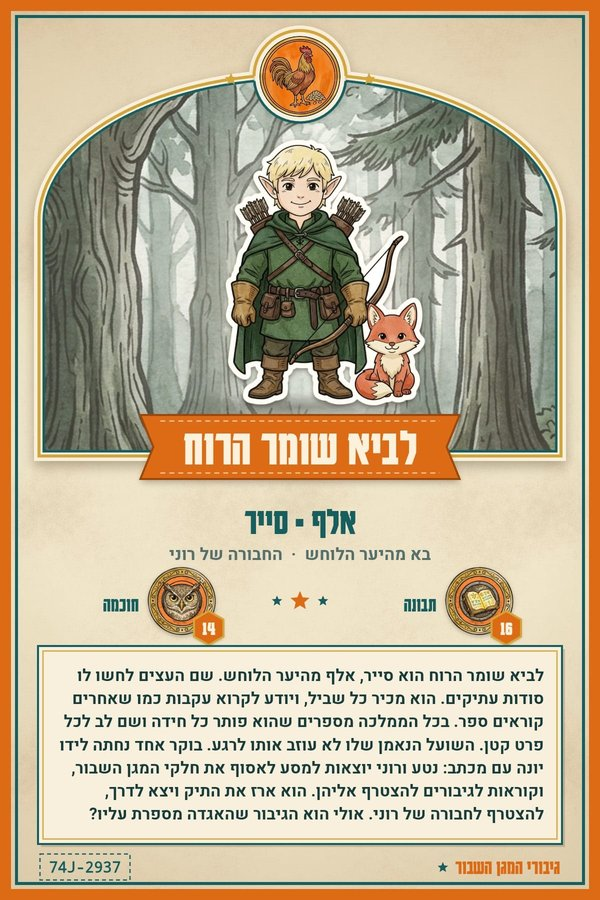
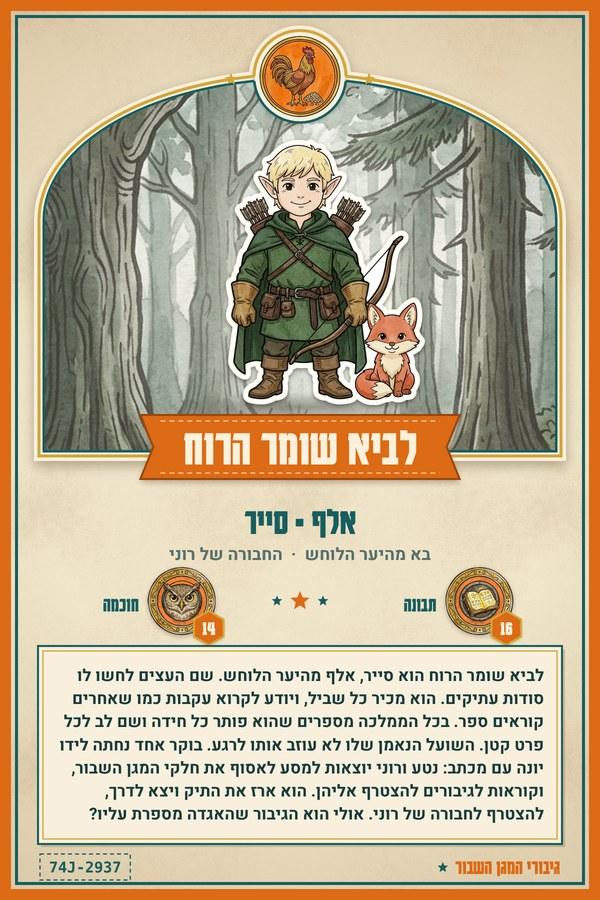
The rooster crest upright (6 degrees clockwise, Doron); the four rooster gallery cards re-made from their codes
Claude-Session: https://claude.ai/code/session_01LEbABbnnB8nh6yaNWJiAwm

Changed region(s): [[0.45, 0.0311, 0.54, 0.1244], [0.78, 0.7778, 0.81, 0.8089], [0.54, 0.7778, 0.57, 0.8089]]

diff --git a/gallery.js b/gallery.js
@@ -3,9 +3,9 @@
 // Adding a hero: README.md, "The gallery". Each card is read for anything private before it goes in: this site is public.
 const GALLERY = {
   0: "gallery/0.jpg",    // נטע, 2026-11-23
-  1: "gallery/1.jpg",    // רוני, 2026-11-23
-  4: "gallery/4.jpg",    // עלמה, 2026-11-23 ("עלמה ילדת הירח": renamed by Doron, re-made from the code)
-  5: "gallery/5.jpg",    // לביא, 2026-11-23
-  7: "gallery/7.jpg",    // אילן, 2026-11-23
+  1: "gallery/1.jpg",    // רוני, 2026-11-23; re-made from the code 2026-11-25 (the rooster crest upright)
+  4: "gallery/4.jpg",    // עלמה, 2026-11-23 ("עלמה ילדת הירח": renamed by Doron, re-made from the code); re-made from the code 2026-11-25 (the rooster crest upright)
+  5: "gallery/5.jpg",    // לביא, 2026-11-23; re-made from the code 2026-11-25 (the rooster crest upright)
+  7: "gallery/7.jpg",    // אילן, 2026-11-23; re-made from the code 2026-11-25 (the rooster crest upright)
   8: "gallery/8.jpg",    // ראם, 2026-11-23 ("ראם חומק הצללים": renamed by Doron, re-made from the code)
 };

diff --git a/tools/parts/build_web.py b/tools/parts/build_web.py
@@ -1,6 +1,7 @@
 """Writes the hero's pictures for the site, and parts.js, which says where each one goes.
-python3 build_web.py <repo root> [--js-only]   (run from the working folder with parts/raw/* and tools/parts/* in it)
+python3 build_web.py <repo root> [--js-only | --crests]   (run from the working folder with parts/raw/* and tools/parts/* in it)
 --js-only rewrites parts.js without making the pictures again (the slow part, about 12 minutes).
+--crests makes only the two team crests (seconds); parts.js stays as it is.
 
 Everything is placed in "hero space": body pixels of the 1024 px body pictures, origin at the body picture's
 top-left (a head and its hat reach above it, so y goes negative). Every layer in parts.js carries m = [a, b, c,
@@ -30,6 +31,17 @@ def save(im, name, scale):
 def m6(M): return [round(float(v), 5) for v in (M[0, 0], M[1, 0], M[0, 1], M[1, 1], M[0, 2], M[1, 2])]
 def scale_shift(k, x, y): return np.array([[k, 0, x], [0, k, y], [0, 0, 1.0]])
 def rel(name): return "parts/web/" + name
+
+# Team crests, for the name screen and the card. The rooster is drawn leaning: its correct angle is 6 degrees clockwise
+# (Doron, 2026-11-25), turned round the badge's centre (the badge is round, so only the bird and its seed pile turn).
+CREST_TURN = {"neta": 0, "roni": 6}
+def crest(t):
+    im = cutout(f"crest_{t}.jpg"); im = im.crop(im.getbbox())
+    if CREST_TURN[t]: im = im.rotate(-CREST_TURN[t], resample=Image.BICUBIC, center=(im.width / 2, im.height / 2))
+    return save(im, f"crest_{t}.webp", 320 / im.width)
+if "--crests" in sys.argv:
+    for t in CREST_TURN: print(f"crest_{t}.webp", crest(t))
+    sys.exit()
 
 parts = {"K": K, "bodies": {}, "heads": {}, "hats": {}, "pets": {}, "colours": HC.COLOURS, "classes": HC.CLASSES}
 
@@ -97,9 +109,7 @@ for p in PETS:
     im = A.load_pet(p); name = f"pet_{p}.webp"; save(im, name, K)
     parts["pets"][p] = {"src": rel(name), "m": m6(scale_shift(1 / K, 920 - im.width // 2, 985 - im.height))}
 
-# Team crests, for the name screen and the card.
-for t in ("neta", "roni"):
-    im = cutout(f"crest_{t}.jpg"); im = im.crop(im.getbbox()); save(im, f"crest_{t}.webp", 320 / im.width)
+for t in CREST_TURN: crest(t)
 parts["crests"] = {"neta": rel("crest_neta.webp"), "roni": rel("crest_roni.webp")}
 
 with open(os.path.join(ROOT, "parts.js"), "w") as fh:

diff --git a/tools/parts/README.md b/tools/parts/README.md
@@ -12,7 +12,7 @@ The parts are drawn in Gemini by Doron and kept as they came in `parts/raw/`.
 - `recolor.py`: outfit colour by hue swap. Each recolourable body lists its garment's hue range and minimum saturation (`GARMENT`); pixels inside it move to the target hue, keeping their texture. Druid, cleric and barbarian stay as drawn. `sheet_colors.py` shows every body in every colour.
 - `recolor2.py`: the three classes without one clear garment hue. Druid: the olive robe (hue 41-58) swaps, the leaves stay. Cleric: the white robe and cape (light, nearly colourless) take a pastel dye. Barbarian: the dark undershirt (sleeves, trousers) takes a strong dye; the fur and armour stay.
 - `sheet_fairy.py`: fairies get `back_wings` behind the body, at full source size, the wing joint (source 512, 520) on body row 300.
-- **Crest angle (Doron, 2026-11-25): the rooster (`crest_roni.jpg`) is correct turned 6° clockwise** of its source picture; the koala as drawn. Any crest picture made from now on turns the rooster so; the ones already on the site predate this.
+- **Crest angle (Doron, 2026-11-25): the rooster (`crest_roni.jpg`) is correct turned 6° clockwise** of its source picture; the koala as drawn. `build_web.py` turns it (`CREST_TURN`; `--crests` re-makes just the two crests in seconds), so the site's crest is upright since 11-25; any other crest picture made from the source should turn it the same way. The first screen's stamp (`crest_stamp.py`, shown tilted as a stamp) was left as it is, by Doron's choice.
 - `sheet_crest.py`: the team crest on each body, at a spot chosen per body (`SPOT`: centre and size in body pixels). The fighter carries it on the shield; the cleric and paladin on the lower tabard, below their sun; the rest on the chest.
 - `accessories.py`: headwear and companions. A hat's width is taken from the head's own width at the row where the hat sits (`HATS`: base row as a fraction from skull top to chin, `fit` as a multiple of that width), so it fits each head. The wizard hat and cap hide the hair above their bottom edge; cat ears and horns stay out beside the hat. The flower crown's far half sits behind the head. `FIX` holds per-head corrections (cat folk and dragon folk get smaller crowns and wizard hats, to sit between ears and horns). Companions are 380 body px tall (dragon and fox 1.2×) at the hero's right foot.
 - `review_hat.py <hat> [tile px]`: one hat, large (450 px tiles by default), on all 12 heads: the check before showing anything.
@@ -22,7 +22,7 @@ The parts are drawn in Gemini by Doron and kept as they came in `parts/raw/`.
 - `hatcolor.py`: headwear in the hero's outfit colour (Doron, 2026-11-07). The target is the garment's own colour on the recoloured body (median hue, saturation, brightness of the garment pixels; `garment_colours.json` caches all 9 classes × 7 colours, delete it to remeasure), so the hat matches the outfit, including 'original' (a drawn-blue wizard robe gives a blue hat; the white cleric a cream one). Only the hat's main colour changes (`HAT_PART`): the cap's beret (band and feather stay), the wizard hat's cloth (stars stay), the flower crown's red and blue blossoms (leaves and yellow flowers stay), and the crown's jewel (the gold stays). The jewel keeps its own brightness (`SHINE`), so it doesn't go black on a dark cloak; a black outfit does give a black jewel.
 - `review_hatcolor.py <hat>[,<hat>…]`: every hat in every colour on every class, full heroes (rows = colours, columns = classes). `review_hatcolor_heads.py <hat> <classes> <heads>`: the same, large, heads only, for the small hats (crown, flowers).
 - `sheet_full.py` applies the hat colour; its `hero()` is shared with `review_hatcolor.py`.
-- **`build_web.py <repo root> [--js-only]`**: the site's pictures and `parts.js` (about 12 minutes; `--js-only` rewrites only `parts.js`). Everything is placed in hero space, the 1024 px body picture's own pixels; each layer gets the canvas transform from its picture to hero space, so the page only places pictures. Writes: 63 bodies (9 classes × 7 colours), each head bare and with the hair under the wizard hat and cap removed, each hat in each class × colour (the flower crown as a back and a front half), 8 companions, the wings, both crests, and the outfit swatches (brightened, since some garments are drawn very dark). Pictures are WebP at 0.7 of hero space (hats at half their source size).
+- **`build_web.py <repo root> [--js-only | --crests]`**: the site's pictures and `parts.js` (about 12 minutes; `--js-only` rewrites only `parts.js`). Everything is placed in hero space, the 1024 px body picture's own pixels; each layer gets the canvas transform from its picture to hero space, so the page only places pictures. Writes: 63 bodies (9 classes × 7 colours), each head bare and with the hair under the wizard hat and cap removed, each hat in each class × colour (the flower crown as a back and a front half), 8 companions, the wings, both crests, and the outfit swatches (brightened, since some garments are drawn very dark). Pictures are WebP at 0.7 of hero space (hats at half their source size).
 - `accessories.place()` returns, for a hat on a head, the head with the hair removed, the hat layers, and their transforms; `head_with_hat()` composes them. Checked pixel-identical to the approved review sheets, and the transforms checked against the placed pictures (`check_affine.py`: same position, at least 98.9% overlap).
 
 ## The print page's relief pictures (2026-11-23)
